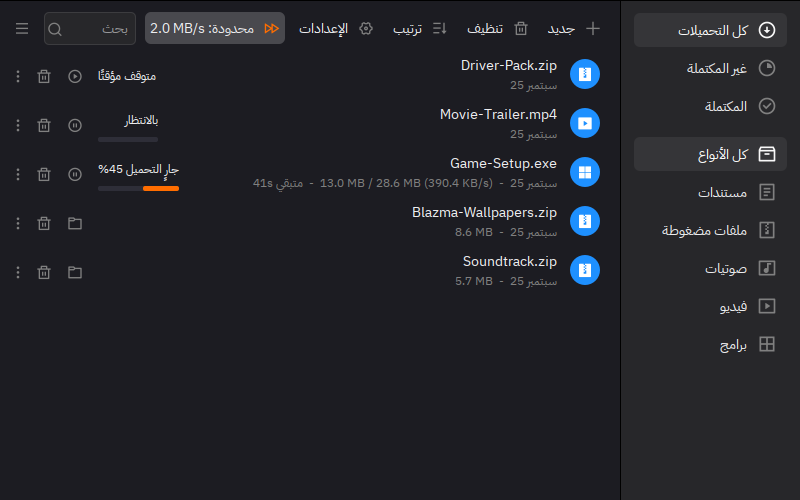
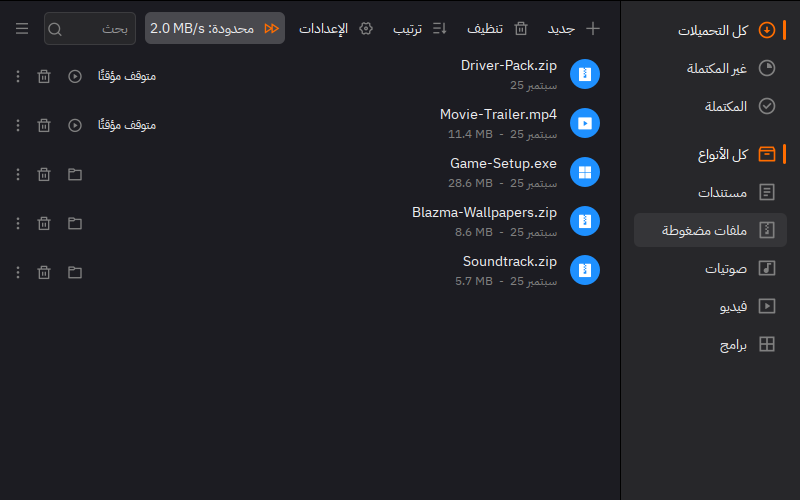
Smoother sidebar and animated view changes
- Sidebar: the translucent pill now follows the mouse only, sliding
  between rows and fading in and out; the selected row of each list is
  marked with an accent bar and accent glyph. Before, the selected rows
  of both lists kept a pill, so two rows always looked highlighted
- Switching the list filter (state, category, search) or the settings
  page plays a short fade-and-rise, so the change is felt
- Refresh the Arabic main-window screenshot

Claude-Session: https://claude.ai/code/session_01W6LVdaT35LTepaLobBv1xh

diff --git a/xdm-app/src/main/java/xdm/app/ui/components/Motion.kt b/xdm-app/src/main/java/xdm/app/ui/components/Motion.kt
@@ -1,0 +1,138 @@
+package xdm.app.ui.components
+
+import java.awt.AlphaComposite
+import java.awt.Color
+import java.awt.Graphics
+import java.awt.Graphics2D
+import java.awt.LayoutManager
+import java.awt.RenderingHints
+import java.awt.event.MouseAdapter
+import java.awt.event.MouseEvent
+import javax.swing.JList
+import javax.swing.JPanel
+import javax.swing.ListModel
+import javax.swing.Timer
+import kotlin.math.abs
+
+/** Frame interval of the small UI animations (about 60 frames per second). */
+private const val FRAME_MS = 15
+
+/**
+ * A list whose hover highlight is a rounded pill that slides to the row under the mouse and
+ * fades in and out, instead of each row lighting up on its own. It is the only background
+ * highlight, so two lists side by side never show two highlighted rows at once; the selected
+ * row is marked by its renderer (accent bar and glyph) instead.
+ */
+open class HoverPillList<T>(model: ListModel<T>, private val pillColor: () -> Color) : JList<T>(model) {
+    private var hoverIndex = -1
+    private var pillY = 0f
+    private var pillHeight = 0f
+    private var alpha = 0f
+    private var targetAlpha = 0f
+    private val timer = Timer(FRAME_MS) { step() }
+
+    init {
+        isOpaque = false
+        val mouse = object : MouseAdapter() {
+            override fun mouseMoved(e: MouseEvent) = hover(rowAt(e))
+            override fun mouseDragged(e: MouseEvent) = hover(rowAt(e))
+            override fun mouseExited(e: MouseEvent) = hover(-1)
+        }
+        addMouseListener(mouse)
+        addMouseMotionListener(mouse)
+    }
+
+    private fun rowAt(e: MouseEvent): Int {
+        val index = locationToIndex(e.point)
+        return if (index >= 0 && getCellBounds(index, index)?.contains(e.point) == true) index else -1
+    }
+
+    private fun hover(index: Int) {
+        if (index == hoverIndex && (index >= 0) == (targetAlpha > 0f)) return
+        if (index >= 0) {
+            val bounds = getCellBounds(index, index) ?: return
+            // Coming from nowhere, appear in place instead of sliding in from an old row.
+            if (alpha < 0.05f) {
+                pillY = bounds.y.toFloat()
+                pillHeight = bounds.height.toFloat()
+            }
+            targetAlpha = 1f
+        } else {
+            targetAlpha = 0f
+        }
+        hoverIndex = index
+        timer.start()
+    }
+
+    private fun step() {
+        val bounds = if (hoverIndex >= 0) getCellBounds(hoverIndex, hoverIndex) else null
+        if (bounds != null) {
+            pillY += (bounds.y - pillY) * 0.35f
+            pillHeight += (bounds.height - pillHeight) * 0.35f
+        }
+        alpha = if (alpha < targetAlpha) (alpha + 0.14f).coerceAtMost(targetAlpha)
+        else (alpha - 0.10f).coerceAtLeast(targetAlpha)
+        val settled = alpha == targetAlpha && (bounds == null || abs(bounds.y - pillY) < 0.5f)
+        if (settled) {
+            bounds?.let { pillY = it.y.toFloat(); pillHeight = it.height.toFloat() }
+            timer.stop()
+        }
+        repaint()
+    }
+
+    override fun paintComponent(g: Graphics) {
+        if (alpha > 0.01f) {
+            val g2 = g.create() as Graphics2D
+            g2.setRenderingHint(RenderingHints.KEY_ANTIALIASING, RenderingHints.VALUE_ANTIALIAS_ON)
+            val c = pillColor()
+            g2.color = Color(c.red, c.green, c.blue, (c.alpha * alpha).toInt().coerceIn(0, 255))
+            val x = insets.left
+            val w = width - insets.left - insets.right
+            g2.fillRoundRect(x, pillY.toInt() + 2, w, pillHeight.toInt() - 4, 12, 12)
+            g2.dispose()
+        }
+        super.paintComponent(g)
+    }
+}
+
+/**
+ * A panel whose content fades in and rises a few pixels when [play] is called, so a change of
+ * content (another filter, another settings page) is felt instead of snapping silently.
+ */
+class FadeInPanel(layout: LayoutManager) : JPanel(layout) {
+    private var progress = 1f
+    private var startedAt = 0L
+    private val timer = Timer(FRAME_MS) {
+        val t = ((System.nanoTime() - startedAt) / 1_000_000f / DURATION_MS).coerceAtMost(1f)
+        progress = 1f - (1f - t) * (1f - t) * (1f - t) // ease-out cubic
+        if (t >= 1f) (it.source as Timer).stop()
+        repaint()
+    }
+
+    fun play() {
+        startedAt = System.nanoTime()
+        progress = 0f
+        timer.restart()
+        repaint()
+    }
+
+    override fun paint(g: Graphics) {
+        if (progress >= 1f) {
+            super.paint(g)
+            return
+        }
+        // Clear with the background first: the content is drawn shifted and translucent.
+        g.color = background
+        g.fillRect(0, 0, width, height)
+        val g2 = g.create() as Graphics2D
+        g2.composite = AlphaComposite.SrcOver.derive(progress)
+        g2.translate(0, ((1f - progress) * RISE_PX).toInt())
+        super.paint(g2)
+        g2.dispose()
+    }
+
+    private companion object {
+        const val DURATION_MS = 260f
+        const val RISE_PX = 16f
+    }
+}

diff --git a/xdm-app/src/main/java/xdm/app/ui/components/FilterListRenderer.kt b/xdm-app/src/main/java/xdm/app/ui/components/FilterListRenderer.kt
@@ -28,6 +28,20 @@ class FilterListRenderer : ListCellRenderer<FilterItem> {
             if (FlatLaf.isLafDark()) blend(c, Color.WHITE, 0.95f)
             else blend(c, Color.BLACK, 0.45f)
 
+        /**
+         * The hover pill. The sidebar is `Table.background`, so in the dark theme it is a
+         * translucent button fill; in the light theme a neutral shift is too faint against the
+         * pale sidebar, so it is the accent tint the settings nav rail uses.
+         */
+        fun pillColor(): Color =
+            if (FlatLaf.isLafDark()) {
+                val c1 = UIManager.getColor("Button.background")
+                Color(c1.red, c1.green, c1.blue, 75)
+            } else {
+                val accent = settingsAccentColor()
+                Color(accent.red, accent.green, accent.blue, 46)
+            }
+
         private fun blend(c: Color, towards: Color, amount: Float): Color = Color(
             (c.red + (towards.red - c.red) * amount).toInt(),
             (c.green + (towards.green - c.green) * amount).toInt(),
@@ -62,8 +76,9 @@ class FilterListRenderer : ListCellRenderer<FilterItem> {
     }
 
     /**
-     * Draws the selected row as a rounded pill, shaped like the settings window's nav rail so
-     * the two sidebars read as the same control.
+     * Marks the selected row with an accent bar on its leading edge. The translucent pill is
+     * drawn by [HoverPillList] under the mouse only, so the sidebar never shows two rows
+     * highlighted at once (one per list) and the highlight follows the pointer smoothly.
      */
     private class PillLabel : JLabel() {
         var selected = false
@@ -72,27 +87,13 @@ class FilterListRenderer : ListCellRenderer<FilterItem> {
             if (selected) {
                 val g2 = g.create() as Graphics2D
                 g2.setRenderingHint(RenderingHints.KEY_ANTIALIASING, RenderingHints.VALUE_ANTIALIAS_ON)
-                g2.color = pillColor()
-                g2.fillRoundRect(0, 2, width, height - 4, 12, 12)
+                g2.color = settingsAccentColor()
+                val barH = height - 18
+                val x = if (componentOrientation.isLeftToRight) 1 else width - 4
+                g2.fillRoundRect(x, (height - barH) / 2, 3, barH, 3, 3)
                 g2.dispose()
             }
             super.paintComponent(g)
         }
-
-        /**
-         * The sidebar is `Table.background`, so the pill has to come from somewhere else to be
-         * visible at all. In the dark theme that is a translucent button fill, which reads as a
-         * recess; in the light theme a neutral shift is too faint against an already pale
-         * sidebar, so it takes the same accent tint the settings nav rail marks its selected
-         * page with.
-         */
-        private fun pillColor(): Color =
-            if (FlatLaf.isLafDark()) {
-                val c1 = UIManager.getColor("Button.background")
-                Color(c1.red, c1.green, c1.blue, 75) //?: settingsSurface()
-            } else {
-                val accent = settingsAccentColor()
-                Color(accent.red, accent.green, accent.blue, 46)
-            }
     }
 }

diff --git a/xdm-app/src/main/java/xdm/app/ui/components/FilterListPanel.kt b/xdm-app/src/main/java/xdm/app/ui/components/FilterListPanel.kt
@@ -167,17 +167,15 @@ class FilterListPanel(
      * two stacked lists do not share out the leftover vertical space between them.
      */
     private fun stretchingList(model: DefaultListModel<FilterItem>): JList<FilterItem> =
-        object : JList<FilterItem>(model) {
+        object : HoverPillList<FilterItem>(model, FilterListRenderer::pillColor) {
             override fun getMaximumSize(): Dimension = Dimension(Int.MAX_VALUE, preferredSize.height)
-        }
+        }.apply { cursor = java.awt.Cursor.getPredefinedCursor(java.awt.Cursor.HAND_CURSOR) }
 
     /**
-     * Color of a selected row's glyph. The dark theme brightens the normal gray, as it always
-     * has; the light theme uses the accent, so the selected icon matches the settings window's
-     * selected nav entry.
+     * Color of a selected row's glyph: the accent, matching the accent bar the renderer draws
+     * and the settings window's selected nav entry.
      */
-    private fun selectedIconColor(): Color =
-        if (FlatLaf.isLafDark()) FilterListRenderer.emphasize(Color.gray) else settingsAccentColor()
+    private fun selectedIconColor(): Color = settingsAccentColor()
 
     private fun makeIcon(icon: RemixIcon, color: Color): Icon {
         return createIcon(icon, 20, color)

diff --git a/xdm-app/src/main/java/xdm/app/ui/components/MainListView.kt b/xdm-app/src/main/java/xdm/app/ui/components/MainListView.kt
@@ -32,7 +32,7 @@ class MainListView {
     private val table: JTable = JTable(model)
     private val jsp: JScrollPane
     private val cardLayout = CardLayout()
-    private val cardPanel = JPanel(cardLayout).apply {
+    private val cardPanel = FadeInPanel(cardLayout).apply {
         if (AppContext.config.theme == "light") {
             background = UIManager.getColor("Table.background")
         }
@@ -238,19 +238,24 @@ class MainListView {
         return mItem
     }
 
+    // Changing what the list shows plays a short fade, so the switch is felt even when the
+    // new list looks much like the old one.
     fun filterStateChanged(state: FilterState) {
         filter.filterState = state
         model.fireTableDataChanged()
+        cardPanel.play()
     }
 
     fun filterCategoryChanged(category: DownloadCategory?) {
         filter.filterCategory = category
         model.fireTableDataChanged()
+        cardPanel.play()
     }
 
     fun searchTextChanged(text: String) {
         filter.searchText = text
         model.fireTableDataChanged()
+        cardPanel.play()
     }
 
     fun sort(sortKey: SortKey, ascending: Boolean) {

diff --git a/xdm-app/src/main/java/xdm/app/ui/screens/SettingsWindow.kt b/xdm-app/src/main/java/xdm/app/ui/screens/SettingsWindow.kt
@@ -69,7 +69,7 @@ class SettingsWindow(parent: Window) : JDialog(parent) {
     var onSaved: (() -> Unit)? = null
 
     private val card = java.awt.CardLayout()
-    private val panelHolder = JPanel(card)
+    private val panelHolder = xdm.app.ui.components.FadeInPanel(card)
 
     private val btnSave = xdm.app.ui.screens.settings.settingsButton(text("DESC_SAVE_Q")) {
         save()
@@ -83,7 +83,12 @@ class SettingsWindow(parent: Window) : JDialog(parent) {
         fixedCellHeight = 38
         border = EmptyBorder(10, 8, 10, 8)
         cellRenderer = NavRenderer()
-        addListSelectionListener { if (selectedIndex >= 0) card.show(panelHolder, pages[selectedIndex].key) }
+        addListSelectionListener {
+            if (selectedIndex >= 0 && !it.valueIsAdjusting) {
+                card.show(panelHolder, pages[selectedIndex].key)
+                panelHolder.play()
+            }
+        }
     }
 
     init {
